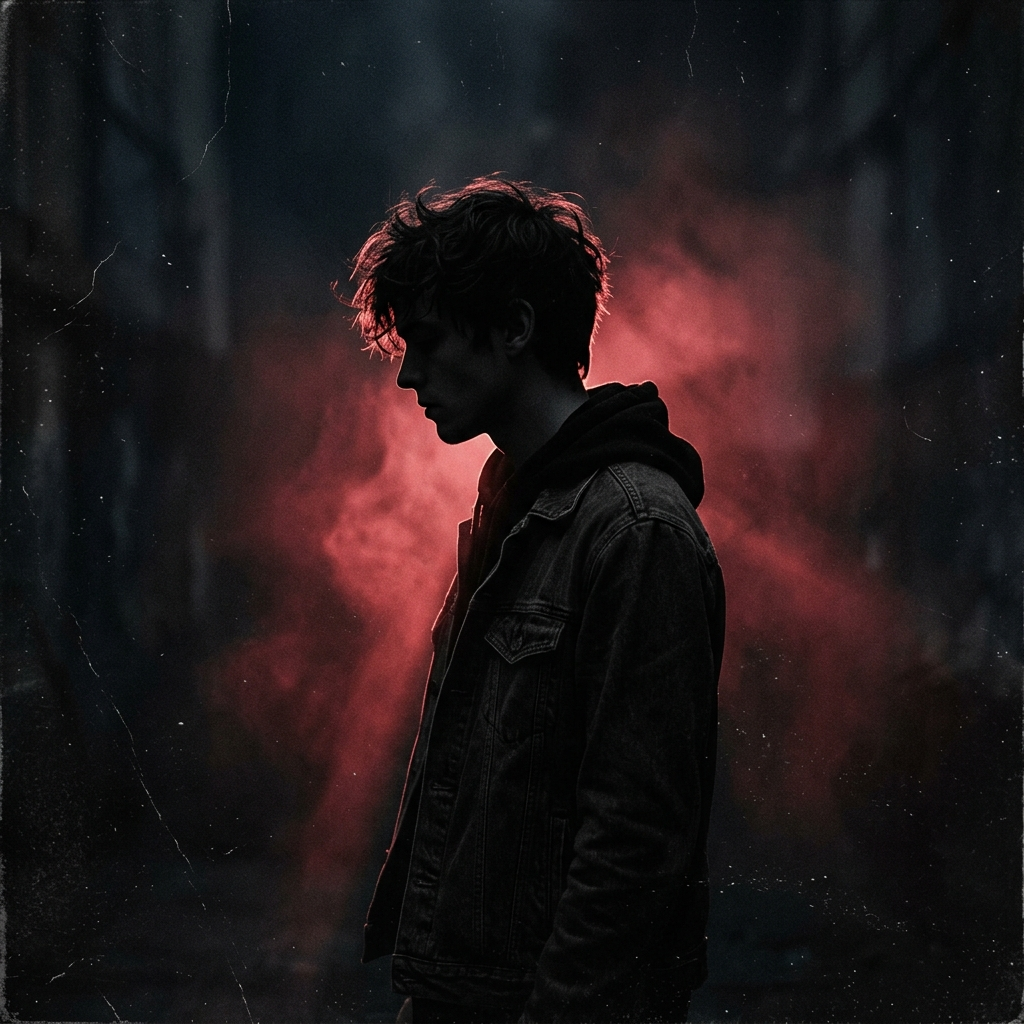
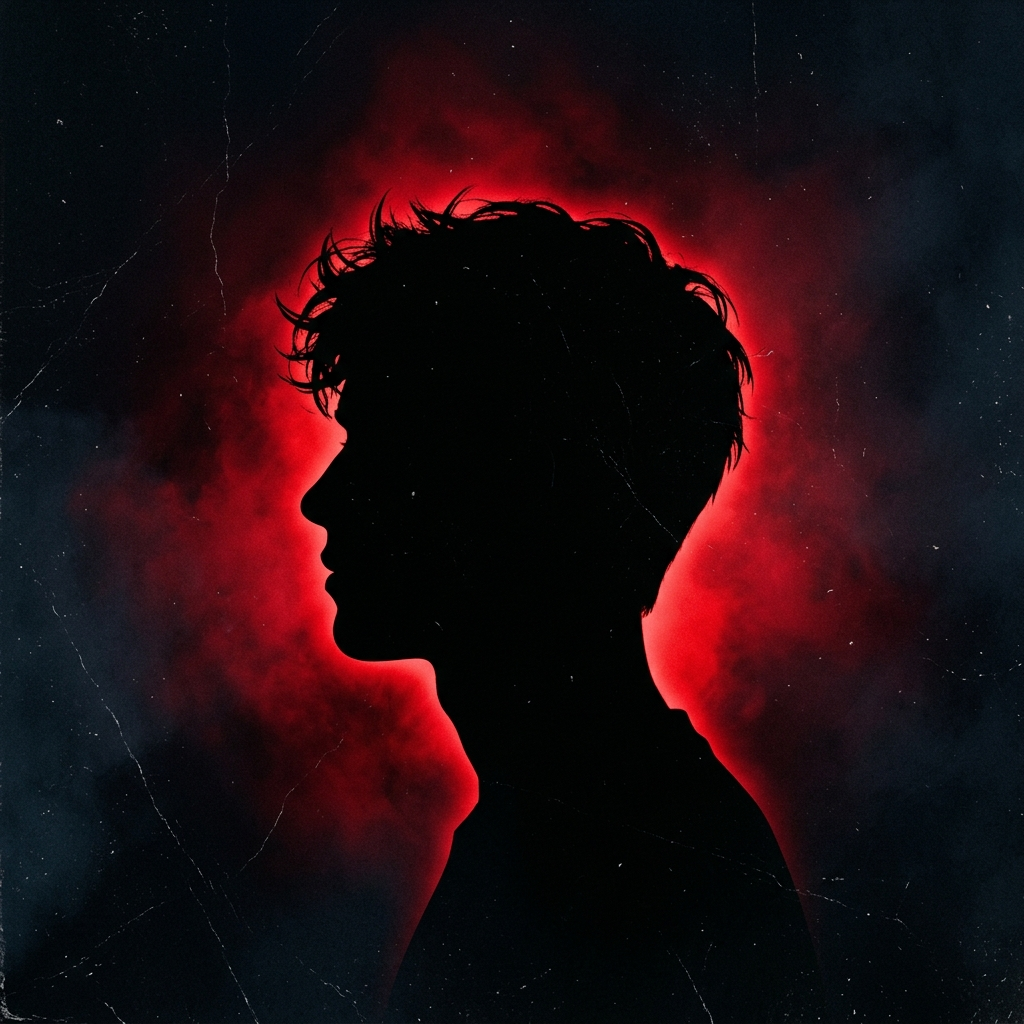
Update Hero & Package cards with exact faceless atmospheric silhouettes, cold smoky blue Lyrics Video player, and Full Combo layout

diff --git a/style.css b/style.css
@@ -918,24 +918,165 @@ body {
 
 .package-thumb {
   width: 100%;
-  height: 160px;
+  height: 175px;
   border-radius: var(--radius-md);
   margin-bottom: 24px;
   position: relative;
   overflow: hidden;
-  border: 1px solid rgba(255, 255, 255, 0.08);
+  display: flex;
+  align-items: center;
+  justify-content: center;
+  background: transparent;
+  border: none;
 }
 
+/* Package 1: Cover Art (Square centered card) */
 .package-thumb-cover {
-  background: linear-gradient(to top, rgba(5, 5, 7, 0.85), rgba(16, 6, 9, 0.2)), url('assets/covers/hero_cover_art.jpg') center/cover no-repeat;
+  display: flex;
+  align-items: center;
+  justify-content: center;
 }
 
+.pkg-cover-art-img {
+  width: 155px;
+  height: 155px;
+  object-fit: cover;
+  border-radius: 14px;
+  border: 1px solid rgba(255, 255, 255, 0.14);
+  box-shadow: 0 12px 32px rgba(0, 0, 0, 0.85);
+}
+
+/* Package 2: Lyrics Video (16:9 smoky blue player) */
 .package-thumb-video {
-  background: radial-gradient(circle at center, #1a162b 0%, #0d0a17 70%, #050507 100%);
+  background: #090b10;
+  border: 1px solid rgba(255, 255, 255, 0.12);
+  border-radius: 14px;
+  box-shadow: 0 12px 32px rgba(0, 0, 0, 0.85);
 }
 
-.package-thumb-full {
-  background: radial-gradient(circle at center, #480c16 0%, #1f080e 70%, #050507 100%);
+.pkg-lyrics-bg-img {
+  position: absolute;
+  inset: 0;
+  width: 100%;
+  height: 100%;
+  object-fit: cover;
+}
+
+.pkg-lyrics-overlay {
+  position: relative;
+  z-index: 2;
+  width: 100%;
+  height: 100%;
+  display: flex;
+  flex-direction: column;
+  align-items: center;
+  justify-content: center;
+  padding: 14px;
+  background: radial-gradient(circle at center, rgba(15, 23, 42, 0.15) 0%, rgba(5, 7, 12, 0.6) 100%);
+}
+
+.pkg-lyrics-title {
+  font-family: var(--font-heading);
+  font-size: 1.15rem;
+  font-weight: 800;
+  line-height: 1.1;
+  text-align: center;
+  letter-spacing: 0.08em;
+  color: rgba(255, 255, 255, 0.9);
+  text-shadow: 0 0 22px rgba(148, 163, 184, 0.55);
+  margin-bottom: auto;
+  margin-top: auto;
+}
+
+.pkg-lyrics-bar {
+  width: 100%;
+  display: flex;
+  align-items: center;
+  gap: 8px;
+  margin-top: auto;
+  font-size: 0.65rem;
+  color: rgba(255, 255, 255, 0.75);
+}
+
+.pkg-play-icon {
+  font-size: 0.65rem;
+  color: #fff;
+}
+
+.pkg-time {
+  font-family: monospace;
+  font-size: 0.62rem;
+  white-space: nowrap;
+}
+
+.pkg-progress-track {
+  flex: 1;
+  height: 2px;
+  background: rgba(255, 255, 255, 0.2);
+  border-radius: 2px;
+  overflow: hidden;
+}
+
+.pkg-progress-fill {
+  width: 32%;
+  height: 100%;
+  background: rgba(255, 255, 255, 0.85);
+}
+
+/* Package 3: Full Combo (Square Cover + Overlapping Lyrics Player) */
+.pkg-full-stage {
+  position: relative;
+  width: 100%;
+  height: 100%;
+  display: flex;
+  align-items: center;
+  justify-content: center;
+}
+
+.pkg-full-cover {
+  width: 138px;
+  height: 138px;
+  border-radius: 12px;
+  overflow: hidden;
+  border: 1px solid rgba(255, 255, 255, 0.16);
+  box-shadow: 0 12px 30px rgba(0, 0, 0, 0.9);
+  transform: translateX(-28px);
+  z-index: 1;
+}
+
+.pkg-full-cover img {
+  width: 100%;
+  height: 100%;
+  object-fit: cover;
+}
+
+.pkg-full-video {
+  position: absolute;
+  right: 6px;
+  width: 162px;
+  height: 106px;
+  border-radius: 11px;
+  overflow: hidden;
+  border: 1px solid rgba(255, 255, 255, 0.18);
+  box-shadow: 0 14px 36px rgba(0, 0, 0, 0.95);
+  background: #090b10;
+  z-index: 2;
+}
+
+.pkg-full-video img {
+  position: absolute;
+  inset: 0;
+  width: 100%;
+  height: 100%;
+  object-fit: cover;
+}
+
+.pkg-lyrics-overlay.compact {
+  padding: 10px;
+}
+
+.pkg-lyrics-overlay.compact .pkg-lyrics-title {
+  font-size: 0.82rem;
 }
 
 .thumb-overlay {

diff --git a/index.html b/index.html
@@ -200,9 +200,7 @@
           <div class="package-card" data-package="cover">
             <div class="package-card-header">
               <div class="package-thumb package-thumb-cover">
-                <div class="thumb-overlay">
-                  <span class="thumb-badge">COVER ART</span>
-                </div>
+                <img src="assets/covers/pkg_cover_blue.jpg" alt="Cover Art" class="pkg-cover-art-img">
               </div>
               <h3 class="package-name" data-i18n="packages.cover.name">Обложка для трека</h3>
               <p class="package-desc" data-i18n="packages.cover.desc">Уникальная обложка, которая выделит твой релиз.</p>
@@ -235,8 +233,14 @@
           <div class="package-card" data-package="lyrics">
             <div class="package-card-header">
               <div class="package-thumb package-thumb-video">
-                <div class="thumb-overlay">
-                  <span class="thumb-badge">LYRICS VIDEO</span>
+                <img src="assets/covers/pkg_lyrics_blue.jpg" alt="Lyrics Video" class="pkg-lyrics-bg-img">
+                <div class="pkg-lyrics-overlay">
+                  <div class="pkg-lyrics-title">LYRICS<br>VIDEO</div>
+                  <div class="pkg-lyrics-bar">
+                    <span class="pkg-play-icon">▶</span>
+                    <span class="pkg-time">0:00 / 2:36</span>
+                    <div class="pkg-progress-track"><div class="pkg-progress-fill"></div></div>
+                  </div>
                 </div>
               </div>
               <h3 class="package-name" data-i18n="packages.lyrics.name">Lyrics видео</h3>
@@ -272,8 +276,20 @@
 
             <div class="package-card-header">
               <div class="package-thumb package-thumb-full">
-                <div class="thumb-overlay">
-                  <span class="thumb-badge">FULL COMBO</span>
+                <div class="pkg-full-stage">
+                  <div class="pkg-full-cover">
+                    <img src="assets/covers/pkg_cover_blue.jpg" alt="Cover Art">
+                  </div>
+                  <div class="pkg-full-video">
+                    <img src="assets/covers/pkg_lyrics_blue.jpg" alt="Lyrics Video">
+                    <div class="pkg-lyrics-overlay compact">
+                      <div class="pkg-lyrics-title">LYRICS<br>VIDEO</div>
+                      <div class="pkg-lyrics-bar">
+                        <span class="pkg-play-icon">▶</span>
+                        <div class="pkg-progress-track"><div class="pkg-progress-fill"></div></div>
+                      </div>
+                    </div>
+                  </div>
                 </div>
               </div>
               <h3 class="package-name" data-i18n="packages.full.name">Полный пакет</h3>
